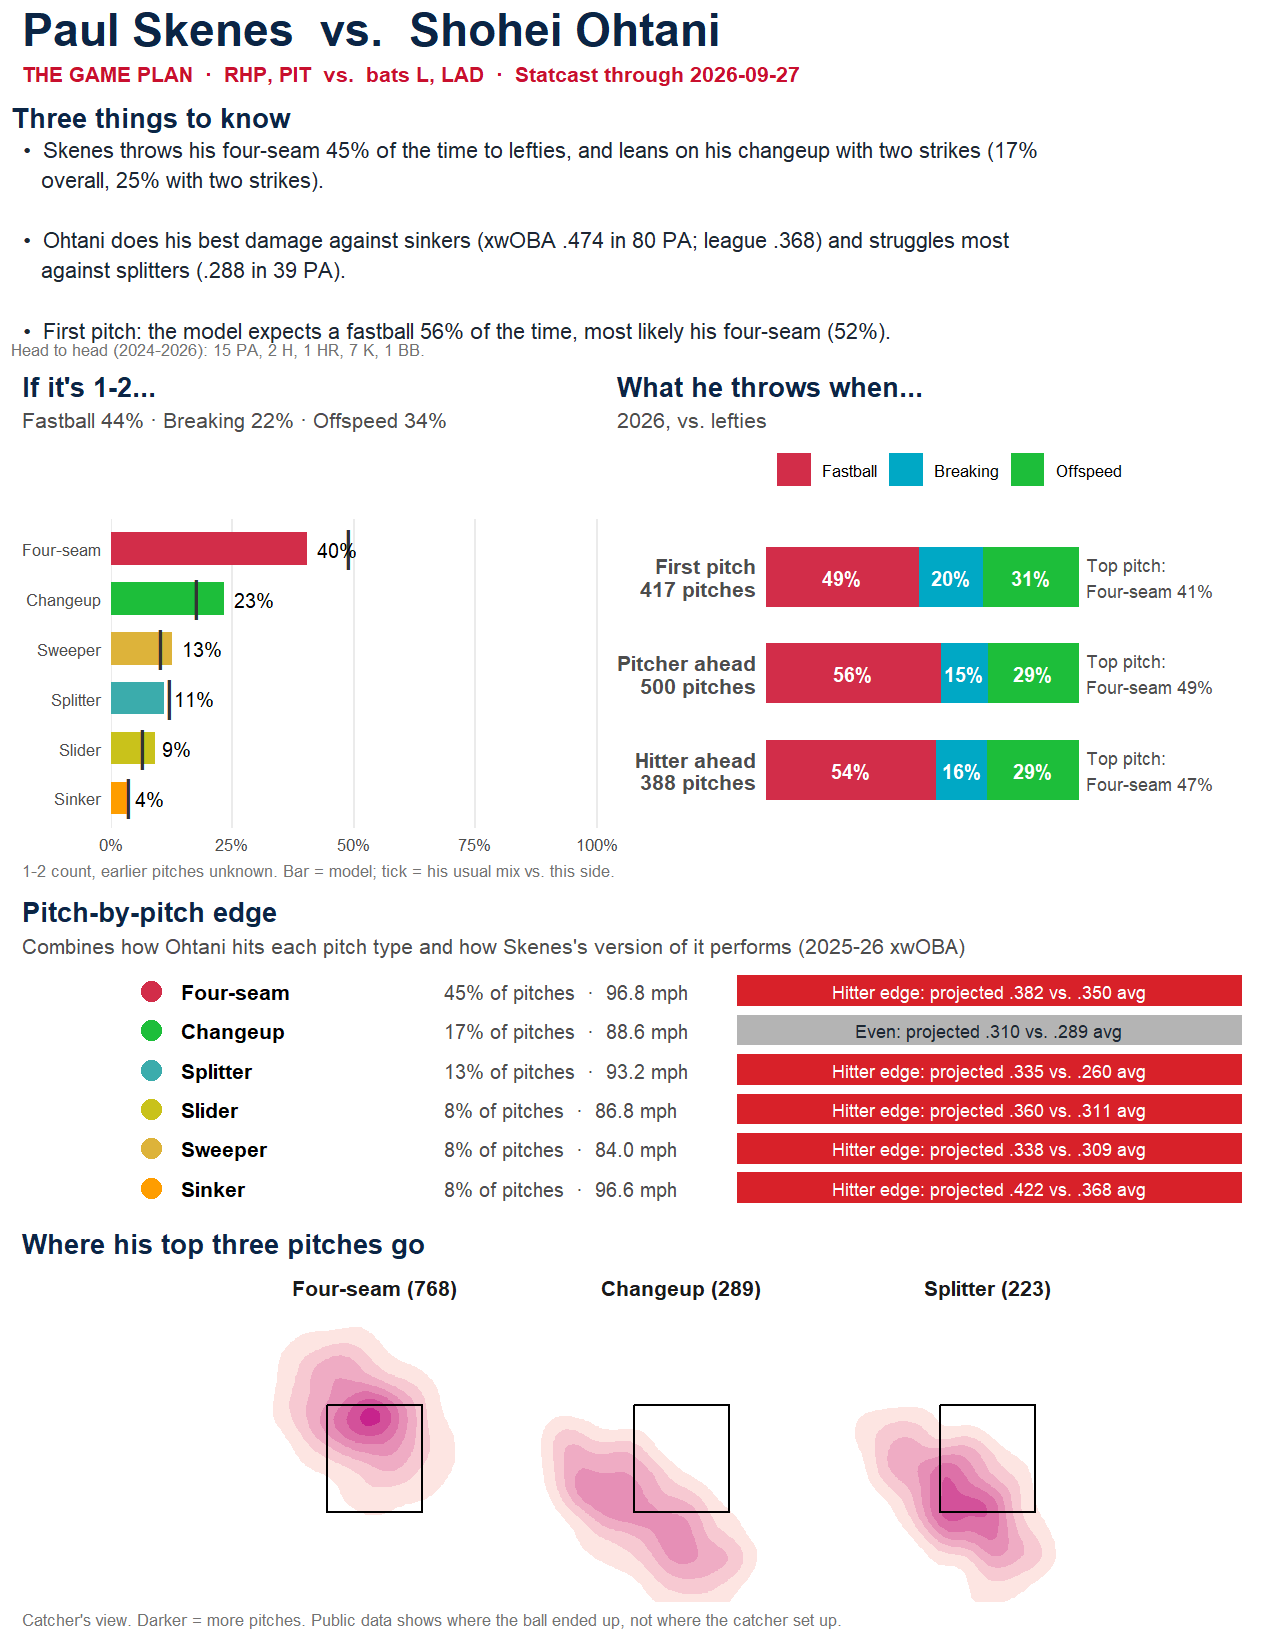
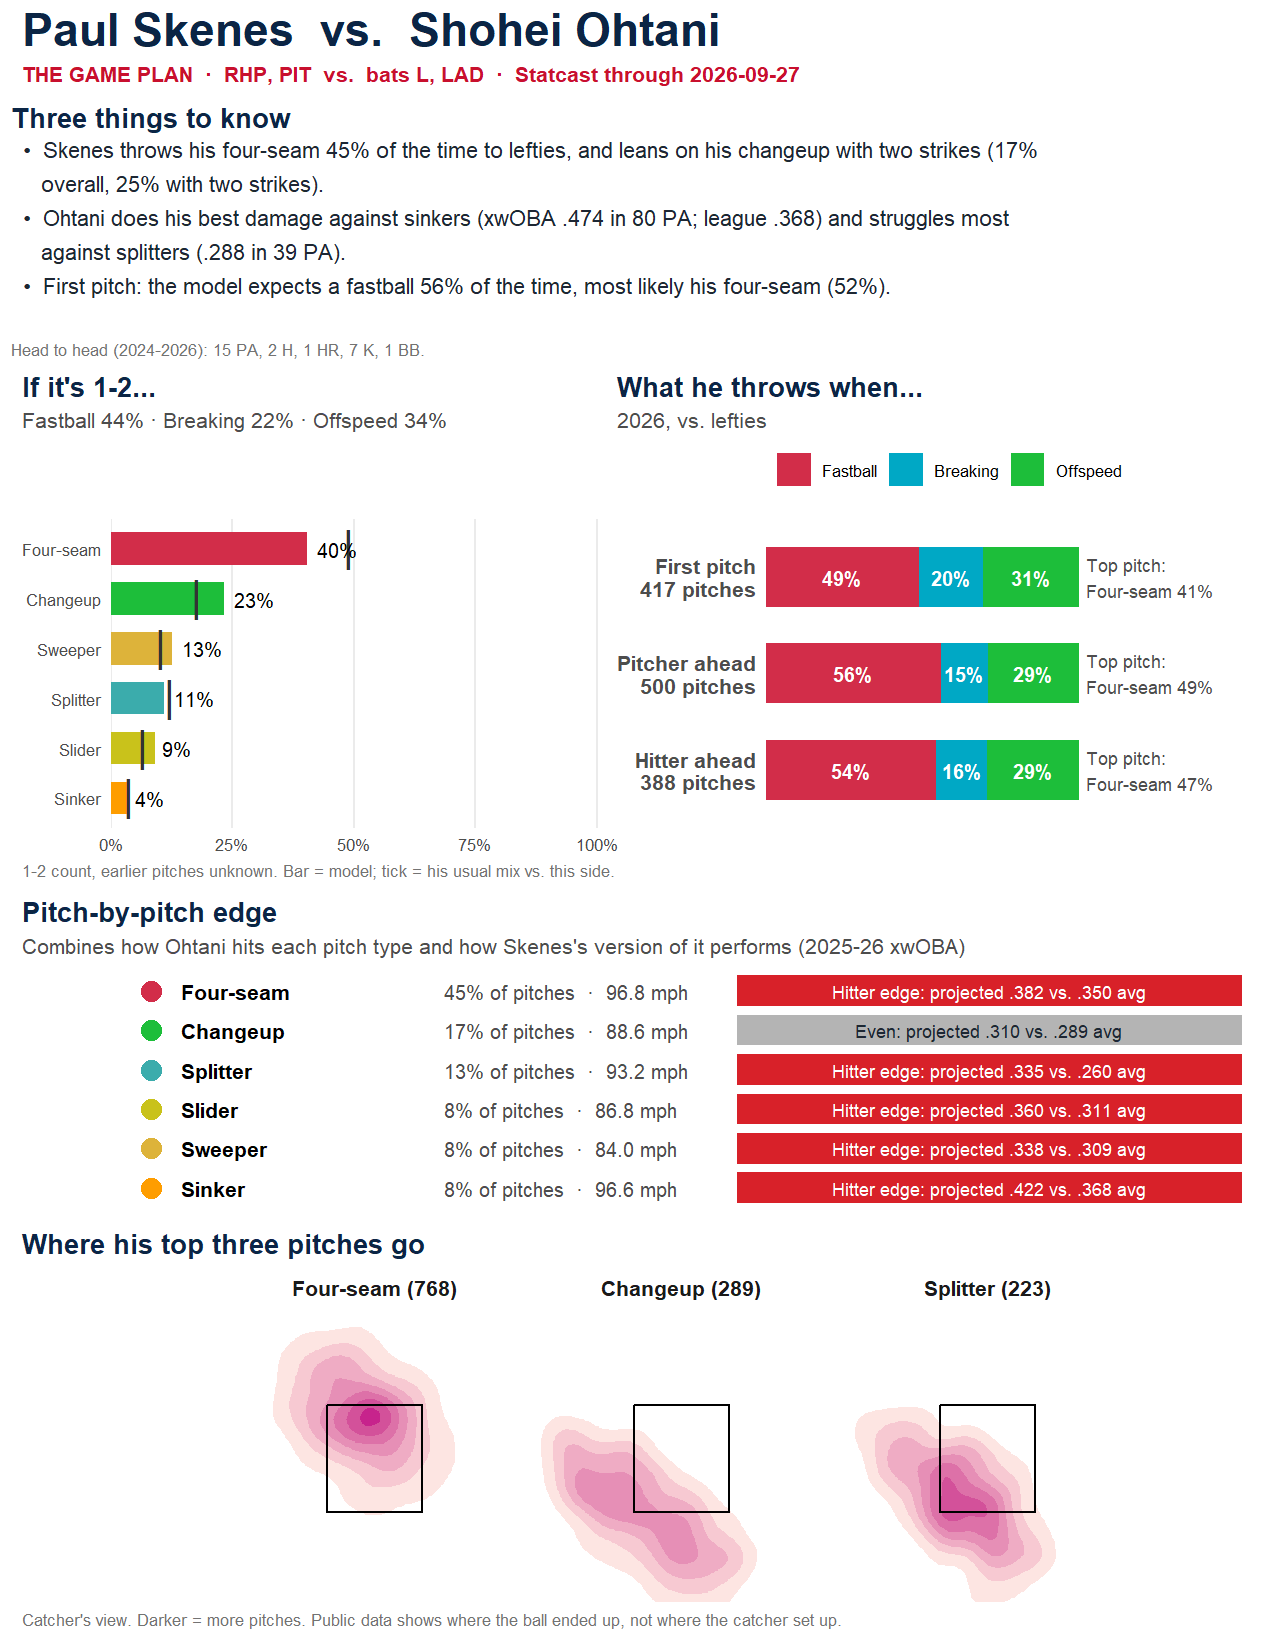
feat: scrollable all-pitch location maps in the app, tighter PDF bullets

Changed region(s): [[0.0306, 0.0927, 0.7953, 0.2164]]

diff --git a/app/www/savant.css b/app/www/savant.css
@@ -86,3 +86,9 @@ body { color: var(--ink); background: #eef1f4; }
 .btn-primary:hover { background: #a30d26; border-color: #a30d26; }
 
 .app-footer { color: var(--muted); font-size: 0.75rem; padding: 0.6rem 0.2rem 1.2rem; }
+
+/* pitch locations: one panel per pitch, scroll sideways when they don't fit */
+.location-scroll { overflow-x: auto; overflow-y: hidden; padding-bottom: 6px; }
+.location-scroll::-webkit-scrollbar { height: 10px; }
+.location-scroll::-webkit-scrollbar-thumb { background: #b9c3cf; border-radius: 5px; }
+.location-scroll::-webkit-scrollbar-track { background: #eef1f4; border-radius: 5px; }
